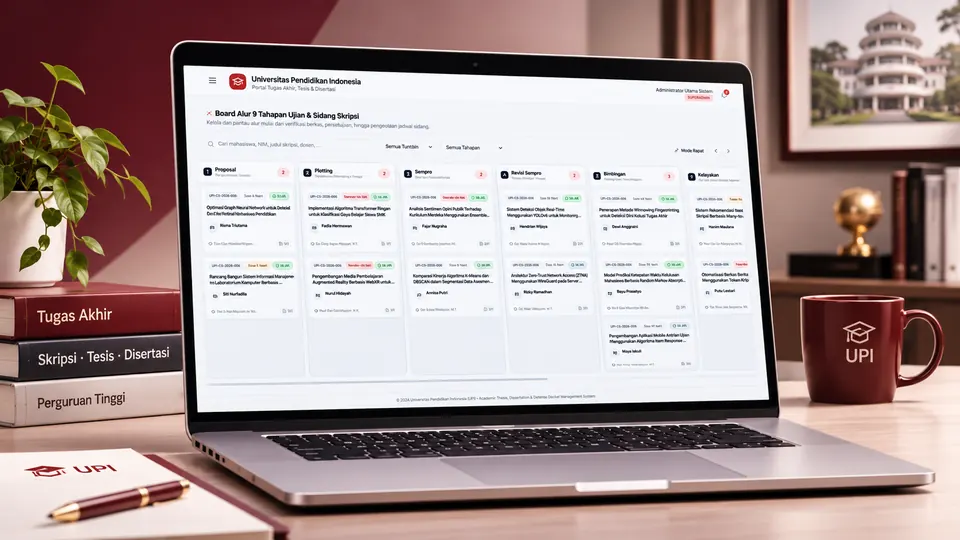
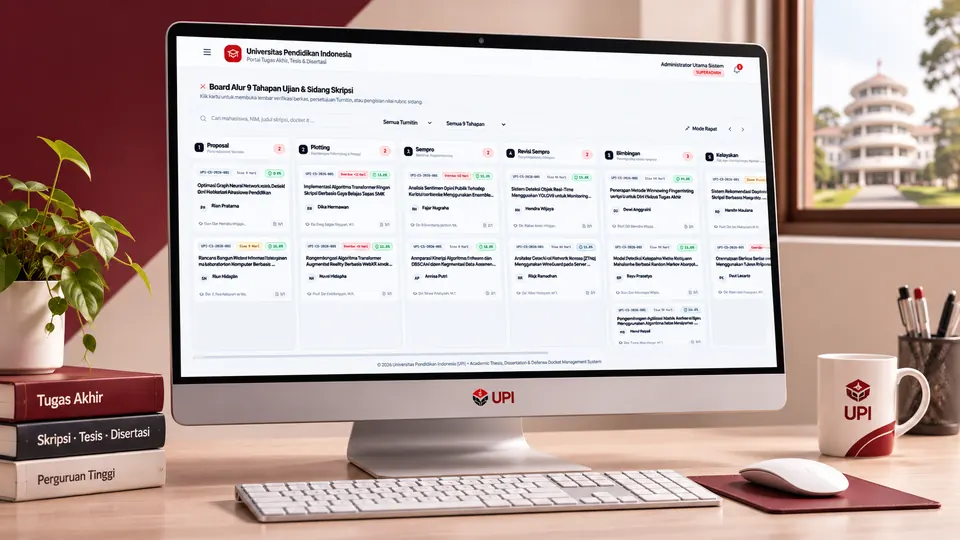
251126

diff --git a/index.html b/index.html
@@ -334,7 +334,7 @@
 
     .hero-name {
       font-family: var(--display);
-      font-size: clamp(56px, 7vw, 112px);
+      font-size: clamp(68px, 8.4vw, 134px);
       font-weight: 700;
       line-height: 0.92;
       letter-spacing: -0.03em;
@@ -356,7 +356,7 @@
 
     .hero-descriptor {
       font-family: var(--mono);
-      font-size: 11px;
+      font-size: 17px;
       letter-spacing: 0.1em;
       color: var(--muted);
       line-height: 1.9;
@@ -375,11 +375,11 @@
 
     .hero-btn {
       font-family: var(--mono);
-      font-size: 9px;
+      font-size: 13px;
       letter-spacing: 0.16em;
       color: var(--text);
       border: 0.5px solid var(--wire);
-      padding: 12px 24px;
+      padding: 14px 28px;
       text-transform: uppercase;
       cursor: pointer;
       transition: border-color 200ms, color 200ms, background 200ms;
@@ -404,7 +404,7 @@
 
     .scroll-hint {
       font-family: var(--mono);
-      font-size: 8px;
+      font-size: 10px;
       letter-spacing: 0.18em;
       color: var(--muted);
       text-transform: uppercase;
@@ -1384,12 +1384,12 @@
 
     <!-- 02 Indonesian 3D Material Studies -->
     <div class="wc" data-category="webgl">
-      <div class="wph" style="position:relative; overflow:hidden;">
-        <svg width="48" height="48" viewBox="0 0 48 48" class="ph-s">
-          <path
-            d="M24 4l-12 8h24l-12-8zM24 12l-10 7h20l-10-7zM24 19l-8 6h16l-8-6zM24 25l-6 5h12l-6-5zM20 30h8v10h-8zM8 40h32v4H8z" />
-        </svg>
-        <span class="wph-lbl">Indonesian 3D Material Studies · Meru Temple &amp; Raja Ampat Shaders</span>
+      <div class="wph" style="position:relative; overflow:hidden; background:linear-gradient(135deg,#f7f4ee,#e5e0d5);">
+        <img src="images/3d-cover.webp" alt="Indonesian 3D Material Studies" loading="lazy" decoding="async"
+          style="position:absolute; inset:0; width:100%; height:100%; object-fit:cover; opacity:0.3; filter:contrast(1.25); z-index:0;" />
+        <div style="position:absolute; inset:0; background:linear-gradient(to top, rgba(239,236,228,0.9), transparent); z-index:1;"></div>
+        <div style="position:relative; z-index:2; font-family:var(--display); font-size:28px; font-weight:700; color:#161615;">3D STUDIES</div>
+        <span class="wph-lbl" style="position:relative; z-index:2; color:#6e6a62;">RAJA AMPAT &amp; ULUN DANU · REALTIME GLSL</span>
         <div style="position:absolute; bottom:10px; right:12px; display:flex; gap:6px; z-index:4;">
           <a href="ulun_danu_lake_bratan_material_studies.html" target="_blank" rel="noopener" style="background:rgba(155,30,48,0.85); border:1px solid rgba(155,30,48,0.6); color:#fff; font-family:var(--mono); font-size:10px; padding:3px 8px; text-decoration:none; border-radius:2px; text-transform:uppercase;">01 Bratan ↗</a>
           <a href="raja_ampat_snorkel_day.html" target="_blank" rel="noopener" style="background:rgba(14,165,233,0.85); border:1px solid rgba(14,165,233,0.6); color:#fff; font-family:var(--mono); font-size:10px; padding:3px 8px; text-decoration:none; border-radius:2px; text-transform:uppercase;">02 Raja Ampat ↗</a>

diff --git a/frontend/src/components/WorkGrid.tsx b/frontend/src/components/WorkGrid.tsx
@@ -263,16 +263,24 @@ export default function WorkGrid({ projects }: WorkGridProps) {
     }
 
     if (project.id === 2) {
-      // 02: Indonesian 3D Material Studies (Cream Square)
+      // 02: Indonesian 3D Material Studies (Cream Square, TATA$ Cover Style)
       return (
         <div className="relative w-full h-full overflow-hidden bg-gradient-to-br from-[#f7f4ee] via-[#efece4] to-[#e5e0d5] flex flex-col items-center justify-center p-6 text-center select-none group-hover:scale-[1.01] transition-transform duration-500 border border-[var(--wire)]">
-          <div className="absolute inset-0 bg-[radial-gradient(rgba(122,21,37,0.08)_1px,transparent_1px)] [background-size:20px_20px] pointer-events-none"></div>
+          <div className="absolute inset-0 flex items-center justify-center opacity-30 group-hover:opacity-45 transition-opacity">
+            {/* eslint-disable-next-line @next/next/no-img-element */}
+            <img
+              src="/images/3d-cover.webp"
+              alt="Indonesian 3D Material Studies"
+              loading="lazy"
+              decoding="async"
+              className="w-full h-full object-cover filter contrast-125"
+            />
+          </div>
+          <div className="absolute inset-0 bg-gradient-to-t from-[#efece4]/90 via-transparent to-transparent"></div>
           <div className="relative z-10 flex flex-col items-center gap-3">
-            <div className="w-12 h-12 rounded-[3px] bg-[#7a1525]/10 border border-[#7a1525]/30 flex items-center justify-center shadow-sm group-hover:border-[#7a1525] transition-colors">
-              <span className="font-mono text-sm font-bold text-[#7a1525]">3D</span>
-            </div>
+            <div className="font-serif text-3xl font-bold tracking-tight text-[#161615] drop-shadow-sm">3D STUDIES</div>
             <div className="font-mono text-xs text-[#6e6a62] tracking-widest uppercase">RAJA AMPAT &amp; ULUN DANU · REALTIME GLSL</div>
-            <div className="px-3 py-1 rounded-[2px] bg-[#7a1525]/10 border border-[#7a1525]/30 text-[#7a1525] font-mono text-[11px] font-semibold tracking-wider flex items-center gap-1.5 shadow-sm">
+            <div className="px-3 py-1 rounded-[2px] bg-[#7a1525]/10 border border-[#7a1525]/30 text-[#7a1525] font-mono text-[11px] font-semibold tracking-wider flex items-center gap-1.5 shadow-sm backdrop-blur-sm">
               <span className="w-1.5 h-1.5 rounded-full bg-[#7a1525]"></span>
               SHADER DIORAMA ↗
             </div>

diff --git a/frontend/src/app/globals.css b/frontend/src/app/globals.css
@@ -283,7 +283,7 @@
 
     .hero-name {
       font-family: var(--display);
-      font-size: clamp(56px, 7vw, 112px);
+      font-size: clamp(68px, 8.4vw, 134px);
       font-weight: 700;
       line-height: 0.92;
       letter-spacing: -0.03em;
@@ -305,7 +305,7 @@
 
     .hero-descriptor {
       font-family: var(--mono);
-      font-size: 14px;
+      font-size: 17px;
       letter-spacing: 0.1em;
       color: var(--muted);
       line-height: 1.9;
@@ -324,11 +324,11 @@
 
     .hero-btn {
       font-family: var(--mono);
-      font-size: 11px;
+      font-size: 13px;
       letter-spacing: 0.16em;
       color: var(--text);
       border: 0.5px solid var(--wire);
-      padding: 12px 24px;
+      padding: 14px 28px;
       text-transform: uppercase;
       cursor: pointer;
       transition: border-color 200ms, color 200ms, background 200ms;
@@ -353,7 +353,7 @@
 
     .scroll-hint {
       font-family: var(--mono);
-      font-size: 8px;
+      font-size: 10px;
       letter-spacing: 0.18em;
       color: var(--muted);
       text-transform: uppercase;

diff --git a/frontend/src/components/Hero.tsx b/frontend/src/components/Hero.tsx
@@ -44,7 +44,7 @@ export default function Hero() {
                 <a
                   href="/docs/CV-Aryo-Update.pdf"
                   download="CV Aryo Update.pdf"
-                  className="hero-btn cursor-pointer font-mono text-[12px]"
+                  className="hero-btn cursor-pointer font-mono"
                 >
                   Curriculum Vitae ↓
                 </a>
